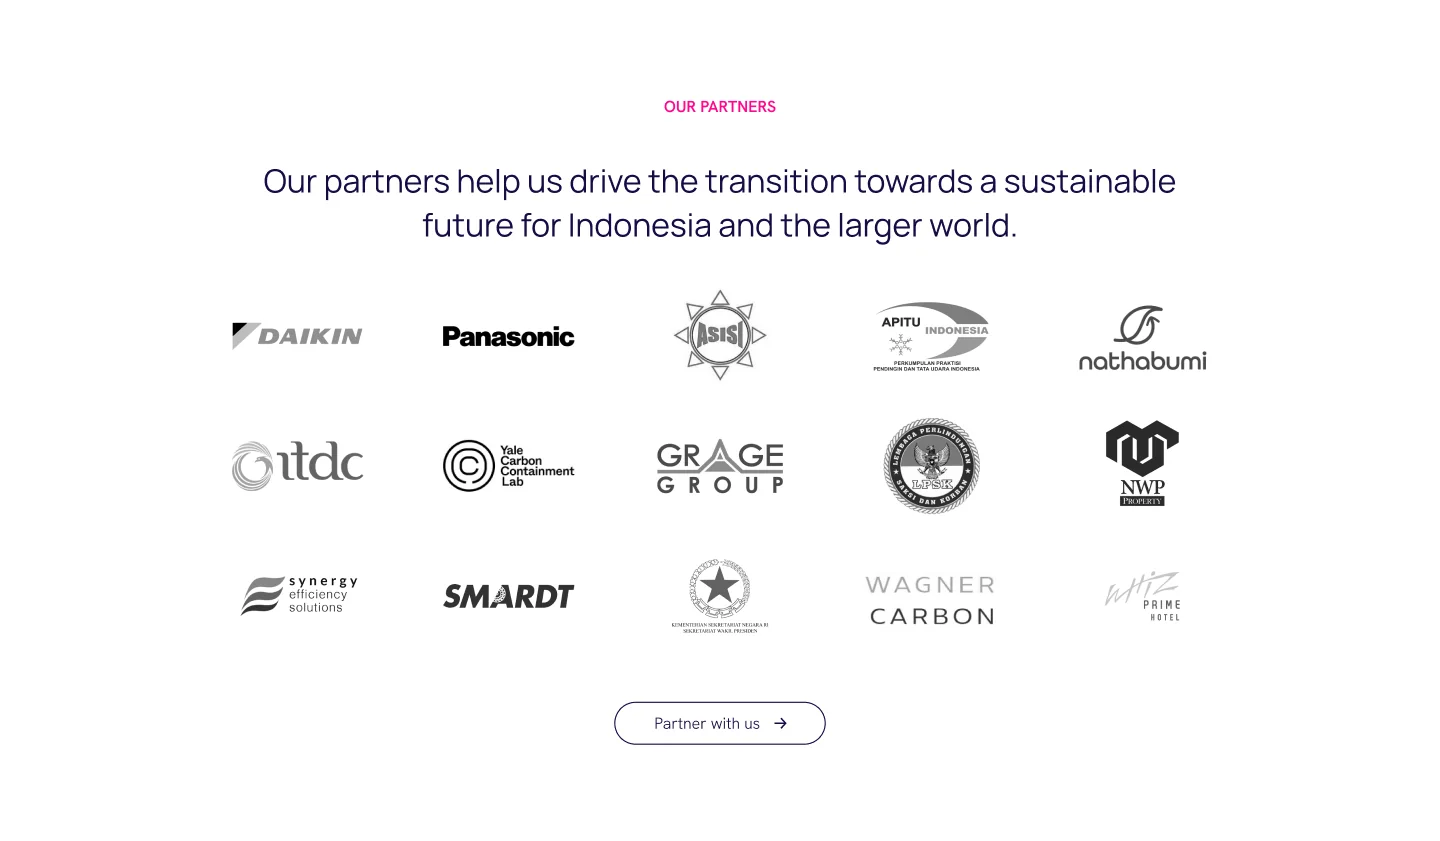
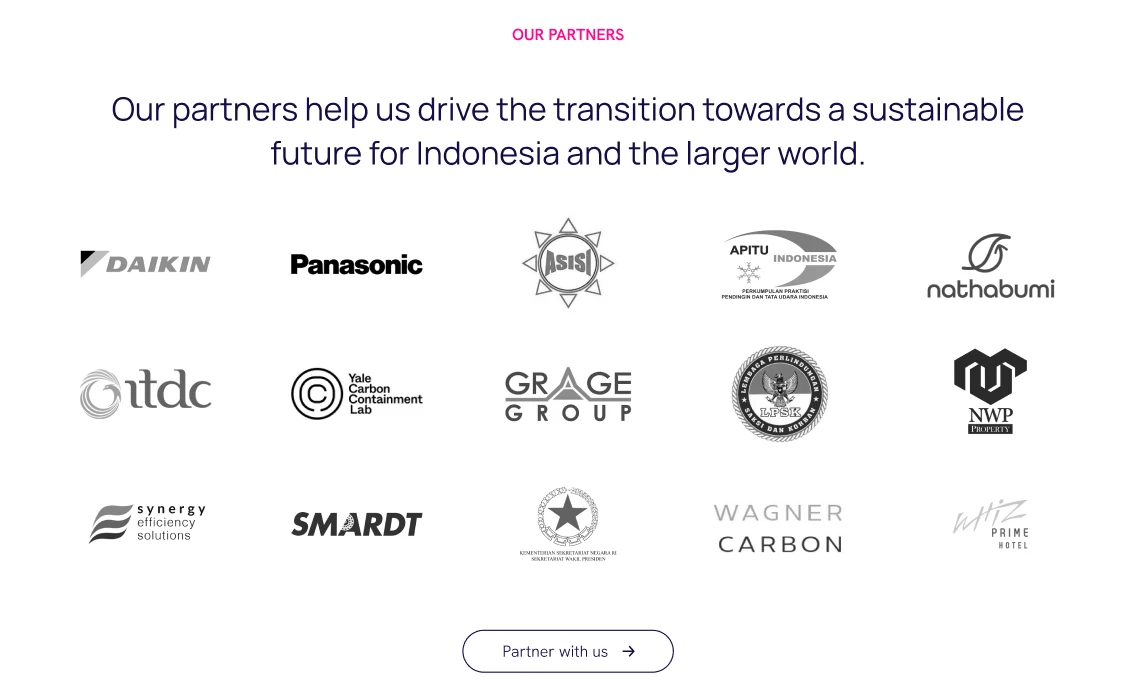
Point the Recoolit partnerships at their announcements
The partners plate is a fresh export, and the three partnerships in the
impact section now link out: Sequestr and Wren to their own write-ups,
Google to the superpollutants announcement.

The header already carried one link, styled as .metaLink. Now that links
turn up in the running copy too, that rule is just .link and covers both.

diff --git a/src/pages/Recoolit.tsx b/src/pages/Recoolit.tsx
@@ -83,7 +83,7 @@ const FIDELITY = [
 export default function Recoolit() {
   useEffect(() => {
     const previous = document.title
-    document.title = 'Designing a Compelling Narrative with Recoolit — Kelley Yu'
+    document.title = 'Crafting a Compelling Narrative with Recoolit — Kelley Yu'
     /* like Playbook, this case study reads on plain white rather than the sand
        everything else is drawn on; the token carries the footer and the rail */
     document.body.dataset.ground = 'white'
@@ -98,11 +98,11 @@ export default function Recoolit() {
       <header id="background" className={`${base.wide} ${base.hero} ${base.anchor}`}>
         <div className={base.heroText}>
           <h1 className={base.title}>
-            Designing a compelling narrative around an overlooked climate problem
+            Crafting a compelling narrative around an overlooked climate problem
           </h1>
           <p className={base.subtitle}>
             Recoolit is a climate tech startup that captures and destroys harmful refrigerant waste
-            from cooling devices.
+            from cooling devices. I helped redesign their website to gain customers and investors.
           </p>
         </div>
         <hr className={base.rule} />
@@ -127,7 +127,7 @@ export default function Recoolit() {
             <dd>
               Landed a{' '}
               <a
-                className={styles.metaLink}
+                className={styles.link}
                 href="https://blog.google/company-news/outreach-and-initiatives/sustainability/google-eliminating-superpollutants-to-help-atmosphere/"
                 target="_blank"
                 rel="noreferrer"
@@ -154,12 +154,9 @@ export default function Recoolit() {
       <div className={base.sections}>
         <section className={`${base.col} ${base.intro}`}>
           <h2 className={base.heading}>Project Overview</h2>
-          <p className={base.lede}>
-            Recoolit is a climate tech startup that captures and destroys harmful refrigerant waste
-            from cooling devices, which otherwise creates massive environmental impact.
-          </p>
+       
           <p className={base.copy}>
-            Their initial web app was unstyled bootstrap, wasn’t getting much engagement, and didn’t
+            Recoolit is a climate tech startup reducing massive environmental impact from refrigerants. Their initial web app was unstyled bootstrap, wasn’t getting much engagement, and didn’t
             reflect their impactful work in the space. They wanted a:
           </p>
           <ul className={styles.list}>
@@ -220,7 +217,7 @@ export default function Recoolit() {
         <section className={`${base.col} ${styles.challenge}`}>
           <p className={styles.challengeLabel}>The Challenge</p>
           <h2 className={styles.challengeText}>
-            Effectively conveying Recoolit’s mission and why it matters to customers, investors, and
+            Effectively convey Recoolit’s mission and why it matters to customers, investors, and
             partners.
           </h2>
         </section>
@@ -229,14 +226,14 @@ export default function Recoolit() {
           <div className={`${styles.textCol} ${base.block}`}>
             <h2 className={base.heading}>Learning from competitors</h2>
             <p className={base.copy}>
-              The competitors that caught my eye right away featured large hero images with striking
+              Looking at competitor sites, many featured large hero images with striking
               photos of our earth. This immediately conveyed a sense of a collective mission. The
               websites that effectively communicated a clear story also struck a perfect balance
               between informative and concise text.
             </p>
             <p className={base.copy}>
               Recoolit stood out amongst its competitors for the high quality of its carbon offsets
-              and its transparency, which I decided to emphasize on its website.
+              and their transparency, which I decided to emphasize on the website.
             </p>
           </div>
 
@@ -255,7 +252,7 @@ export default function Recoolit() {
 
           <div className={`${styles.textCol} ${base.block} ${base.tight}`}>
             <p className={base.copy}>
-              From my competitive analysis, I found the opportunity to utilize the following features
+              From a competitive analysis, I found the opportunity to utilize the following features
               on Recoolit’s home page:
             </p>
             <ul className={styles.list}>
@@ -273,8 +270,8 @@ export default function Recoolit() {
           <div className={`${base.col} ${base.block}`}>
             <SectionHead eyebrow="Design process" heading="Telling a clear and compelling narrative" />
             <p className={base.copy}>
-              In order to tell a more coherent story, I consolidated and condensed information about
-              what Recoolit did from four separate pages to one explainer page. I used copywriting
+              To tell a more coherent story, I consolidated and condensed information about
+              what Recoolit did <strong> from four separate pages to one explainer page </strong>. I used copywriting
               strategies and findings from competitive research to craft a explainer page narrative
               using story frames. This helped communicate page priority and flow early in the
               project.
@@ -305,8 +302,8 @@ export default function Recoolit() {
             <p className={base.copy}>
               Crafting copy that struck the perfect balance between being informative and concise was
               a big focus and challenge. I prioritized refining the explainer page within a Google
-              Doc, where I actively sought and incorporated feedback from two groups: potential users
-              who were newcomers to the industry, and stakeholders with deep industry knowledge.
+              Doc, where I actively sought and incorporated feedback from two groups: <strong> potential customers </strong>
+              who were newcomers to the industry, and <strong> expert stakeholders </strong> with deep industry knowledge. 
             </p>
             <p className={base.copy}>
               This approach allowed me to ensure the message was accurate yet easy to understand for
@@ -459,7 +456,7 @@ export default function Recoolit() {
             />
             <figcaption className={styles.artNote}>
               Instead of a wall of text explaining how it works, I visualized the process to make it
-              more clear
+              more clear.
             </figcaption>
           </figure>
         </section>
@@ -510,8 +507,8 @@ export default function Recoolit() {
               data-zoom
               src={partners}
               alt="The our partners section: fifteen partner logos laid out in a grid under one line about the transition"
-              width={1440}
-              height={841}
+              width={1137}
+              height={697}
               loading="lazy"
             />
             <figcaption className={styles.artNote}>
@@ -608,10 +605,39 @@ export default function Recoolit() {
         <section id="reflections" className={`${base.col} ${base.block} ${base.anchor}`}>
           <SectionHead eyebrow="Reflections" heading="Impact" />
           <p className={base.copy}>
-            Since the launch of my redesign, Recoolit has secured two critical partnerships with
-            Sequestr and Wren, the leading carbon marketplace for individuals. These partnerships
-            cover all existing operating expenses, enabling Recoolit to shift their focus from
-            survival to growth.
+            After the launch of my redesign, Recoolit secured two critical partnerships with{' '}
+            <a
+              className={styles.link}
+              href="https://www.sequestr.io/blog/mission-gigatonne-recoolits-2030-target"
+              target="_blank"
+              rel="noreferrer"
+            >
+              Sequestr
+            </a>{' '}
+            and{' '}
+            <a
+              className={styles.link}
+              href="https://www.wren.co/blog/recoolit-welcome-letter"
+              target="_blank"
+              rel="noreferrer"
+            >
+              Wren
+            </a>
+            , the leading carbon marketplace for individuals.
+          </p>
+          <p className={base.copy}>
+            They also secured a partnership with{' '}
+            <a
+              className={styles.link}
+              href="https://blog.google/company-news/outreach-and-initiatives/sustainability/google-eliminating-superpollutants-to-help-atmosphere/"
+              target="_blank"
+              rel="noreferrer"
+            >
+              Google
+            </a>{' '}
+            to remove 25,000 tons of superpollutants by 2030. These partnerships cover all existing
+            operating expenses, enabling Recoolit to{' '}
+            <strong>shift their focus from survival to growth.</strong>
           </p>
         </section>
 
@@ -624,18 +650,12 @@ export default function Recoolit() {
           <ol className={styles.steps}>
             <li>
               <strong>Increasing customer value</strong> by redesigning the registry and purchase
-              receipt page, making each purchase feel impactful. Take advantage of Recoolit’s
-              traceability, and show the impact of a user’s entire lifecycle in an interactive,
-              user-friendly format.
+              receipt page, making each purchase feel impactful. I want to take advantage of Recoolit’s
+              traceability and show the impact of a user’s entire lifecycle in an interactive format.
             </li>
             <li>
               <strong>Improving interactivity</strong> to tell a better story. Explore using animation
-              and scrollytelling techniques to make their story and website more engaging.
-            </li>
-            <li>
-              <strong>Ensuring the website is accessible and useful to partners in Indonesia.</strong>{' '}
-              Conduct tests with users in Indonesia and make sure they can achieve their goals on the
-              site.
+              and scrollytelling to make their website more engaging.
             </li>
             <li>
               <strong>Tracking page views, session duration, bounce rate, and conversion</strong> to
@@ -661,13 +681,10 @@ export default function Recoolit() {
               </div>
               <div>
                 <h2 className={base.heading}>
-                  Utilize an 8px grid for more consistent layout and spacing.
+                  Good design balances user needs and business goals.
                 </h2>
                 <p className={base.copy}>
-                  I initially used arbitrary column sizes and vertical spacing, but cleaned everything
-                  up midway through in order for consistency and to reduce the workload for the
-                  developer. Next time, I’ll start with a defined spacing system and use an 8px grid
-                  layout from the beginning for a more seamless handoff.
+                  Every design decision from content hierarchy to calls to action needed to help visitors understand Recoolit's value while supporting the company's conversion goals.
                 </p>
               </div>
             </div>

diff --git a/src/pages/Recoolit.module.css b/src/pages/Recoolit.module.css
@@ -13,8 +13,8 @@
   column-gap: max(4px, calc(28 * var(--s)));
 }
 
-/* the one link in the header: it has to read as a link without shouting */
-.metaLink {
+/* links in the writing: they have to read as links without shouting */
+.link {
   color: var(--charcoal);
   text-decoration: underline;
   text-decoration-color: var(--ember);
@@ -22,8 +22,8 @@
   text-underline-offset: 3px;
 }
 
-.metaLink:hover,
-.metaLink:focus-visible {
+.link:hover,
+.link:focus-visible {
   color: var(--ember-deep);
   text-decoration-color: var(--ember-deep);
 }
